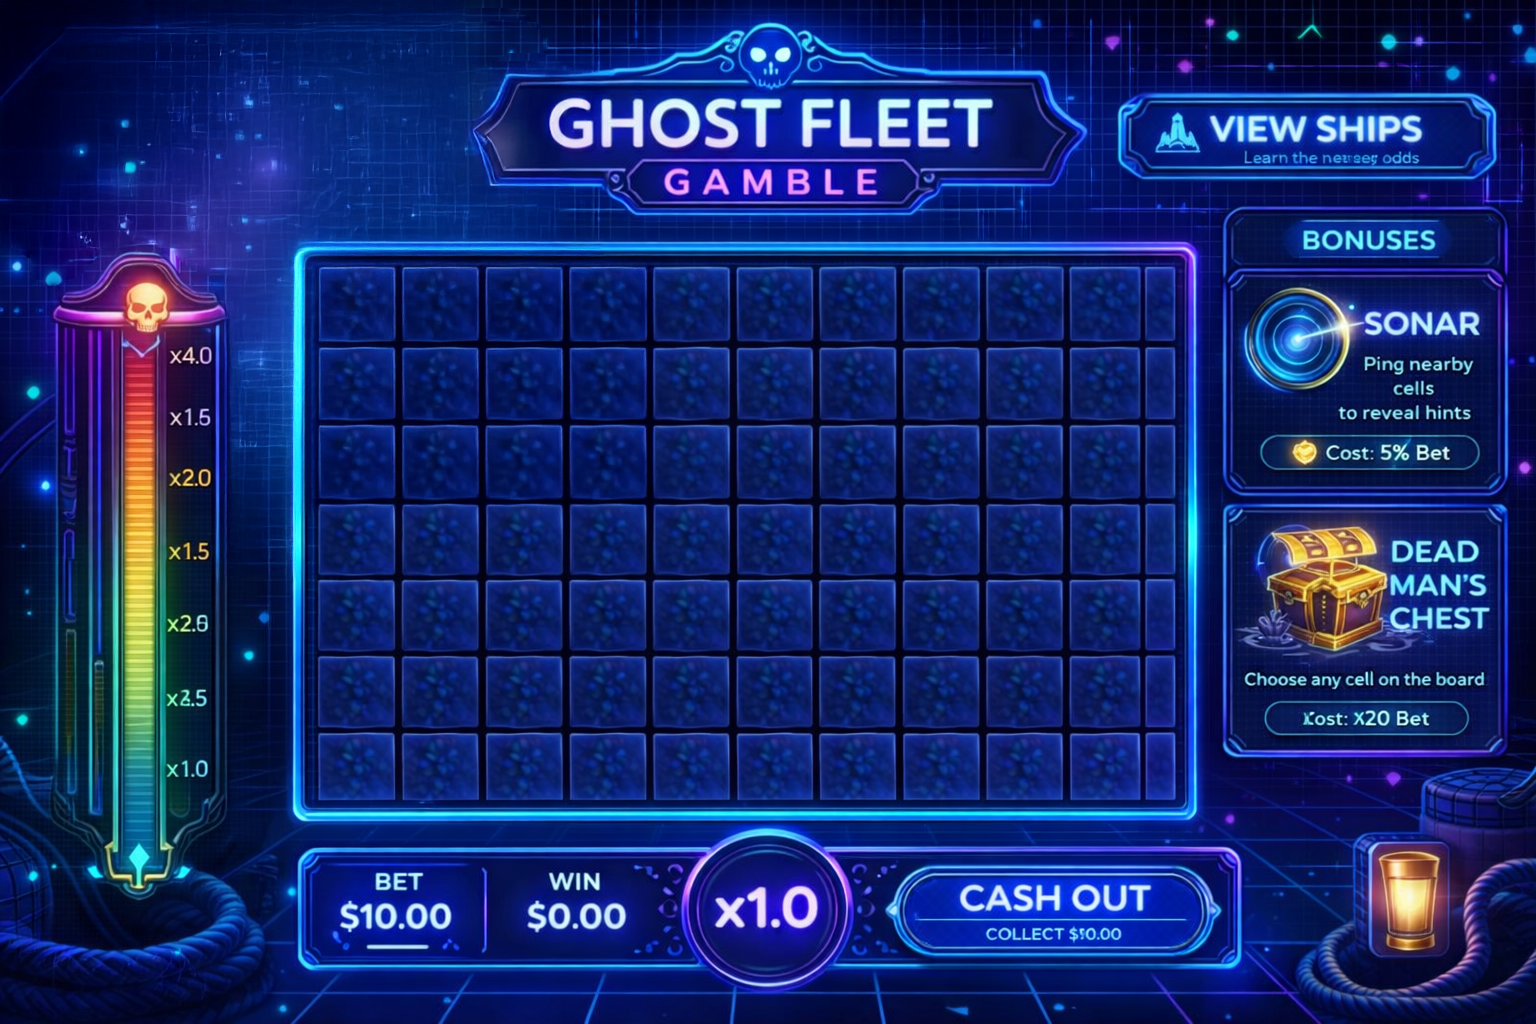
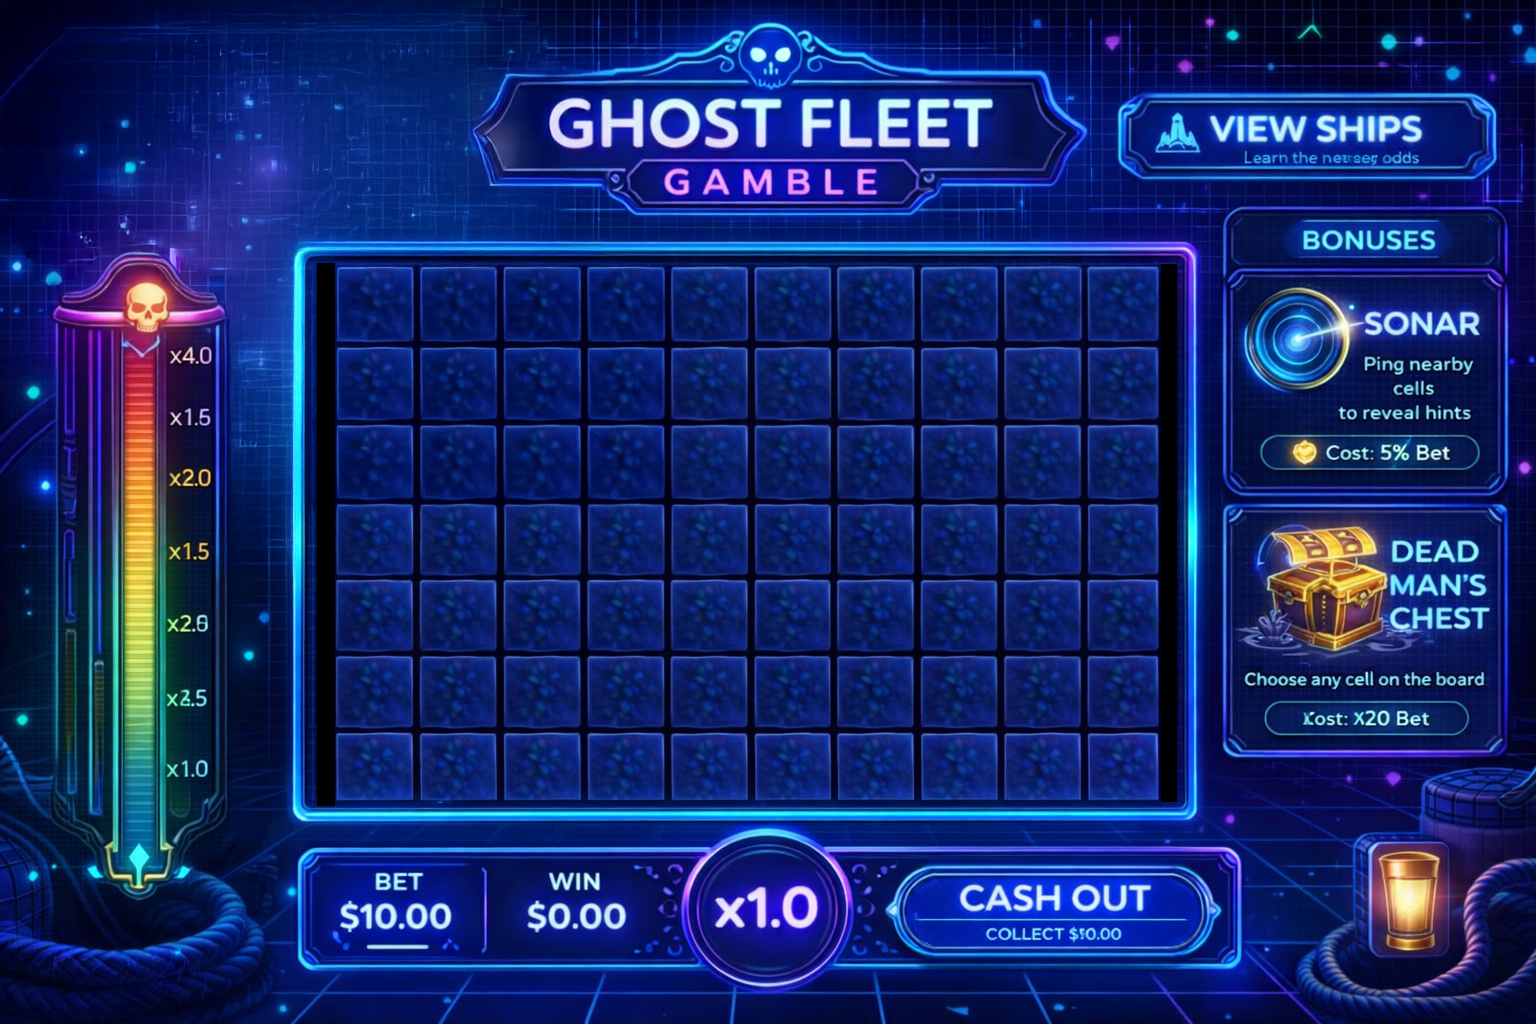
no message

Changed region(s): [[0.1875, 0.25, 0.7812, 0.7812]]

diff --git a/src/screens/MainGame.css b/src/screens/MainGame.css
@@ -213,7 +213,7 @@
   /* Painted playfield is 10×7 (see GhostFleet_Gameplay_NoHead.png). Tune --grid-* only. */
   --grid-inset-top: 17.5%;
   --grid-width-pct: 54%;
-  --grid-nudge-x: -3.25%;
+  --grid-nudge-x: -2.65%;
   --grid-row-offset: 1;
   position: relative;
   flex: 0 0 auto;
